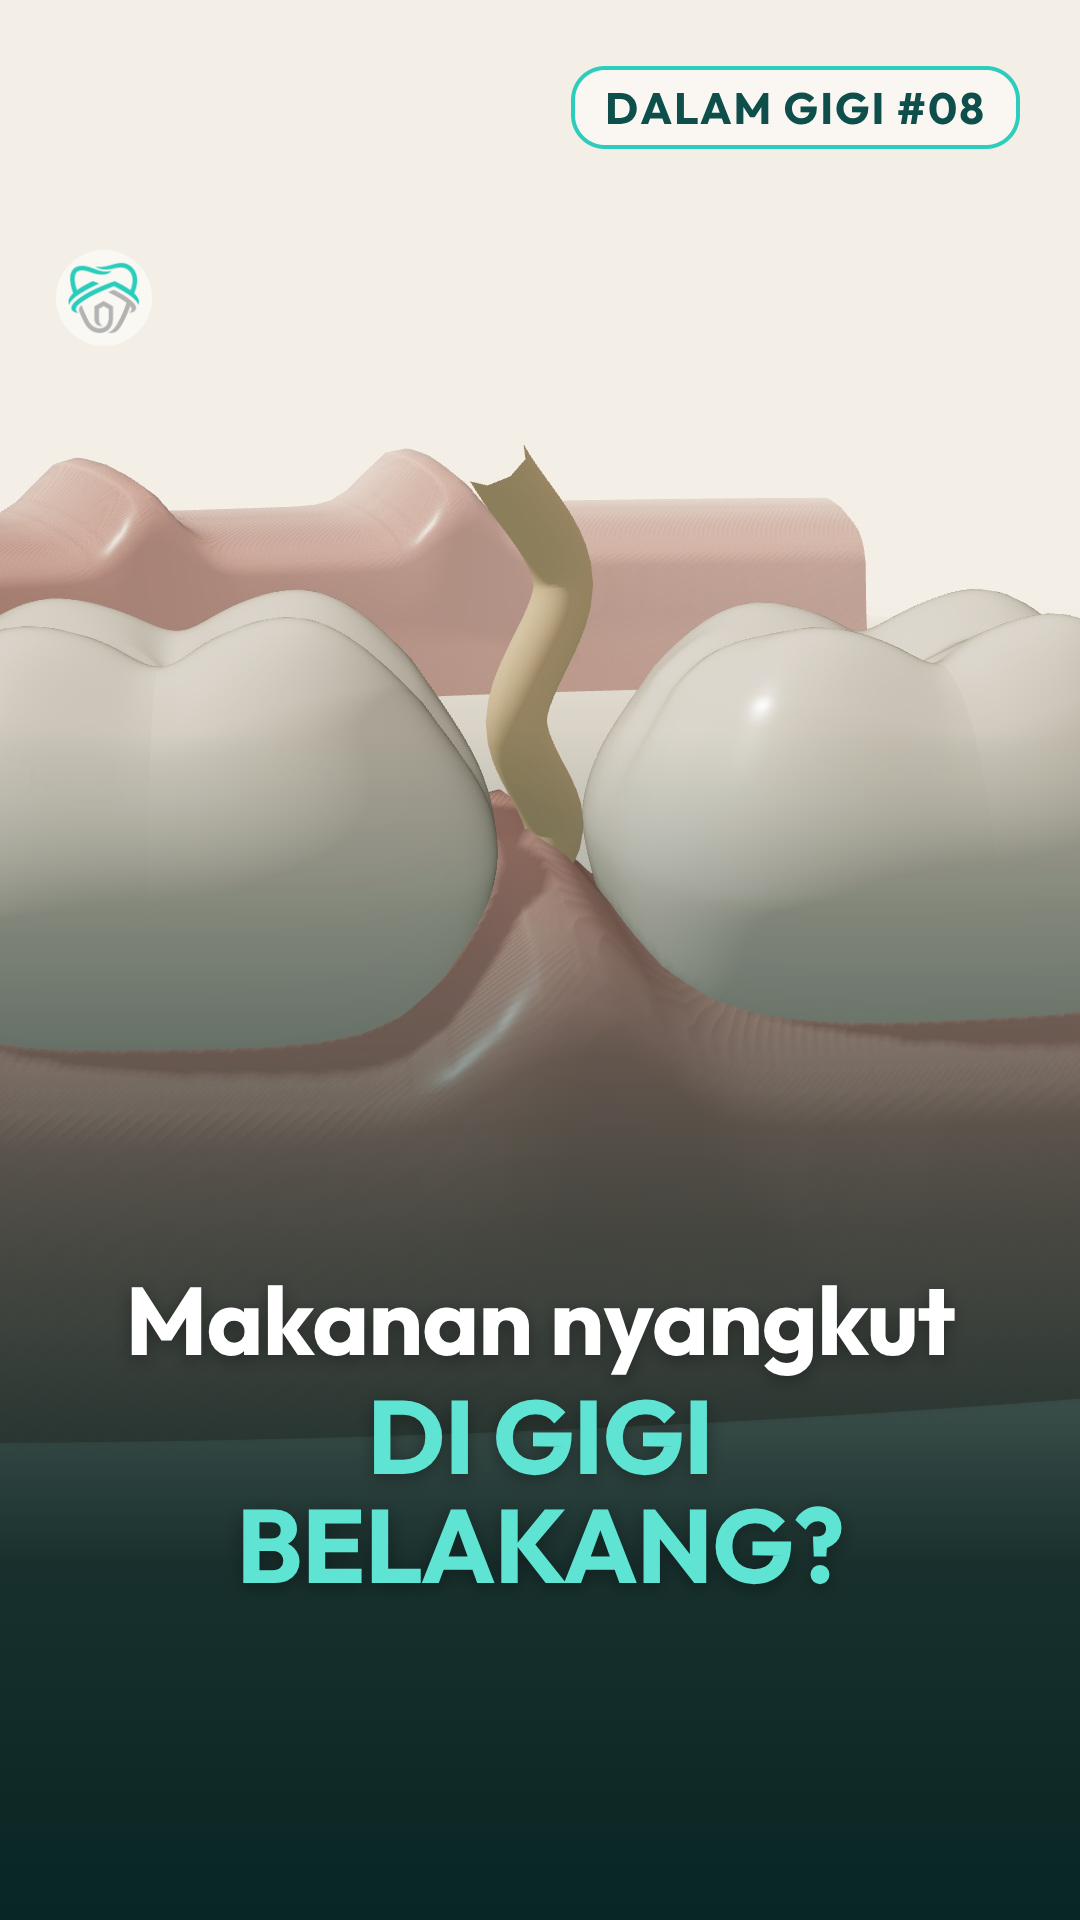
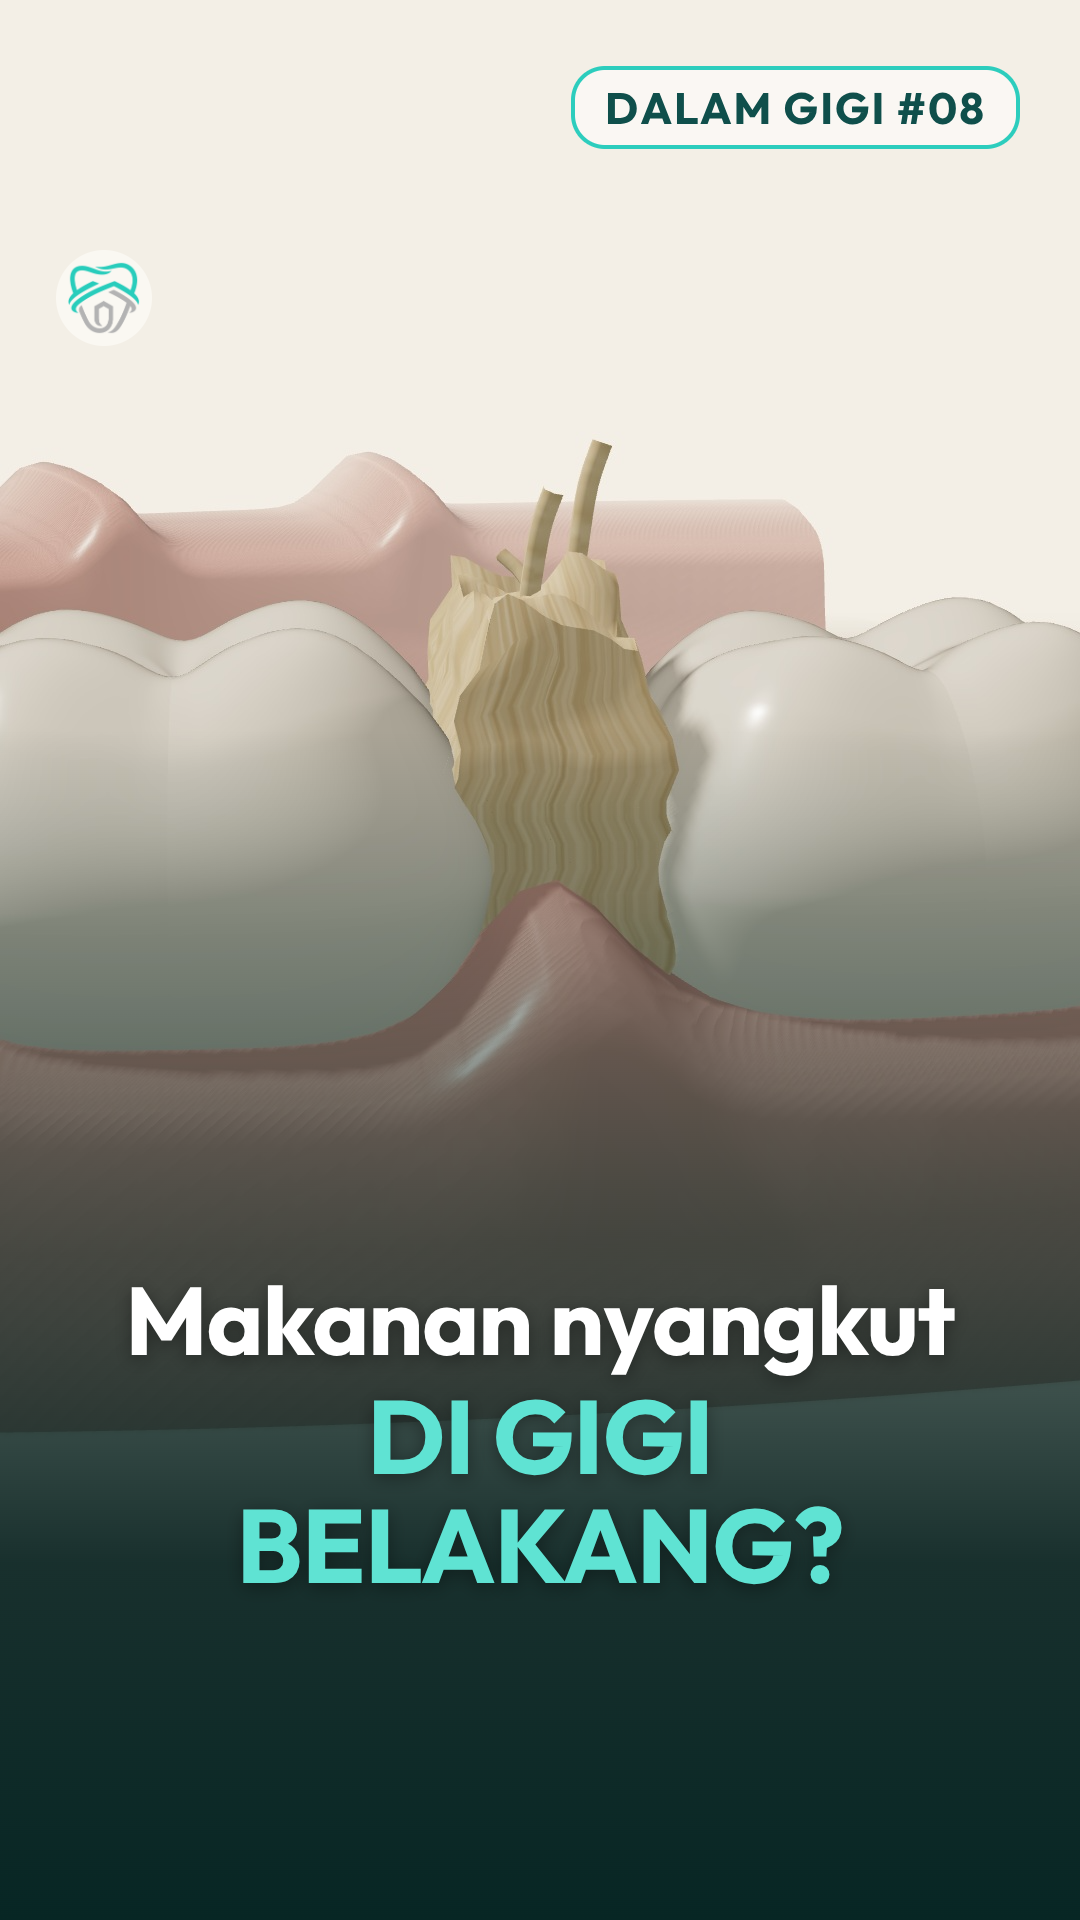
#08 v2 jadi, QC lulus
Claude-Session: https://claude.ai/code/session_016b8dWEsdGvtL7SNg39w4Un

diff --git a/.claude/skills/dalamgigi/SKILL.md b/.claude/skills/dalamgigi/SKILL.md
@@ -202,7 +202,7 @@ Isi dari komentar "mau dibahas apa lagi?". Topik dengan peminta terbanyak diprio
 | 05 | 19 Nov 2026 19.11 WITA (posting otomatis Windsor) | `dalamgigi-05-gusi-berdarah-v2.mp4` (74,6 dtk) | sampul: frame 1,5 dtk (`thumb_offset`), PNG tidak bisa dipakai | https://www.instagram.com/reel/Df68RvBDpuV/ · media_id 18042968876907330 · komentar pertama 18119640761114393. Video diunggah manual ke Drive oleh Pak Dir |
 | 06 | 21 Nov 2026 (diunggah Pak Dir) | `dalamgigi-06-bau-mulut-v1.mp4` (73,9 dtk, QC lulus) + `-drive.mp4` 9,5 MB | `cover-bau-mulut.png` | Caption `output/dalamgigi-06-caption.md` (+ balasan ke pengusul). Adegan `napas.html`: lidah 3D (papila + lapisan putih instanced), panel siluet kepala (tanpa wajah). Narasi take B |
 | 07 | (DITAHAN, jangan diunggah) | `dalamgigi-07-behel-v1.mp4` (79,5 dtk, QC lulus) | `cover-behel.png` | Caption `output/dalamgigi-07-caption.md`. Adegan `behel.html`: braket+kawat, diorama gigi dalam tulang (bantalan, tulang diurai/dibangun), rumah bata, meter per, grafik tangga |
-| 08 | 23 Nov 2026 (dikirim, Pak Dir upload) | `dalamgigi-08-makanan-nyangkut-v1.mp4` (90 dtk, QC lulus) | `cover-makanan-nyangkut.png` | Caption `output/dalamgigi-08-caption.md` (format lengkap). Adegan `celah.html` (lengkung rahang diperbaiki). Request keluhan penonton #05 |
+| 08 | v2 jadi 23 Nov (dikirim ke Pak Dir; v1 diganti) | `dalamgigi-08-makanan-nyangkut-v2.mp4` (88 dtk, QC lulus; formula pemenang, irisan gigi, resleting) | `cover-makanan-nyangkut.png` | Caption `output/dalamgigi-08-caption.md` (format lengkap). Adegan `celah.html` (lengkung rahang diperbaiki). Request keluhan penonton #05 |
 
 Naskah + hasil audit per konten (di `ruma-dental-video/references/`): #01 `naskah-scaling-160.md`, #02 `naskah-lubang-gua-02.md`, #03 `naskah-domino-03.md`, #04 `naskah-sakit-04.md`, #05 `naskah-gusi-05.md`, #06 naskah di caption + `scripts/napas_cfg.json`. Rencana dan caption #01: `rencana-konten-dalamgigi.md`.
 File video tidak masuk Git (sesi cloud sementara): selalu ingatkan Pak Dir mengunduh.
